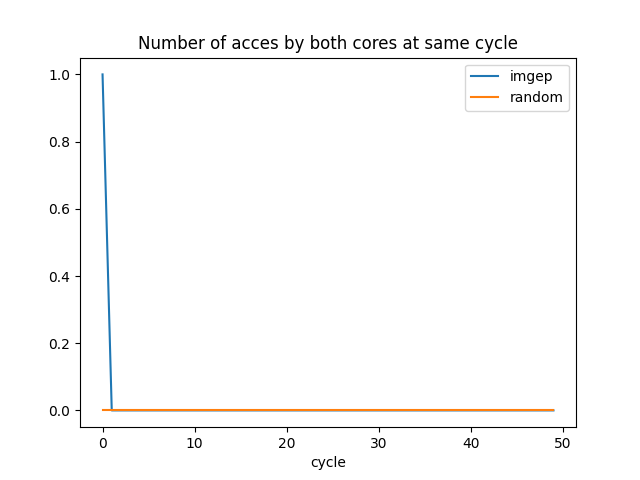
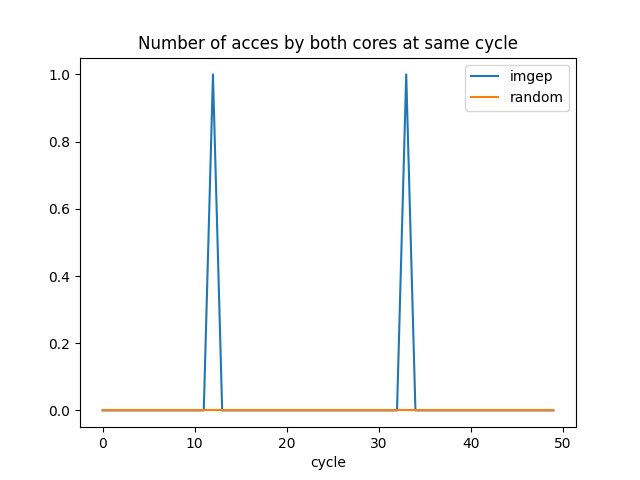
correction des programes

Changed region(s): [[0.5938, 0.1562, 0.6562, 0.8438], [0.3125, 0.1562, 0.375, 0.8438], [0.1562, 0.1562, 0.1875, 0.8438]]

diff --git a/test_imgep.py b/test_imgep.py
@@ -75,7 +75,6 @@ if __name__=="__main__":
     H = History(max_size=1000)
     En = Env(program)
     G = GoalGenerator(50, 20)
-    #P = OptimizationPolicy(mutation_rate=.1)
     P = OptimizationPolicykNN(k=5,mutation_rate =0.1)
 
     def countL3(H:History):
@@ -97,9 +96,21 @@ if __name__=="__main__":
     counts_per_addr_imgep,D1,counts_per_addr_per_cycle_imgep = countL3(H)
 
     
-    H.purge()
-    rand = IMGEP(N,1000,En, H, G, P)
-    rand()
+    #H.purge()
+
+    ddr = DDRMemory()
+    interconnect = Interconnect(ddr, delay=5, bandwidth=4)
+    core0 = MultiLevelCache(0, l1_conf, l2_conf, l3_conf, interconnect)
+    core1 = MultiLevelCache(1, l1_conf, l2_conf, l3_conf, interconnect)
+    program = runpgrms(core0, core1, 50, interconnect, ddr)
+
+    H = History(max_size=1000)
+    En = Env(program)
+    G = GoalGenerator(50, 20)
+    P = OptimizationPolicykNN(k=5,mutation_rate =0.1)
+
+    Rand = IMGEP(N,N,En, H, G, P)
+    Rand()
     counts_per_addr_rand, D2,counts_per_addr_per_cycle_rand = countL3(H)
 
     plt.figure()
